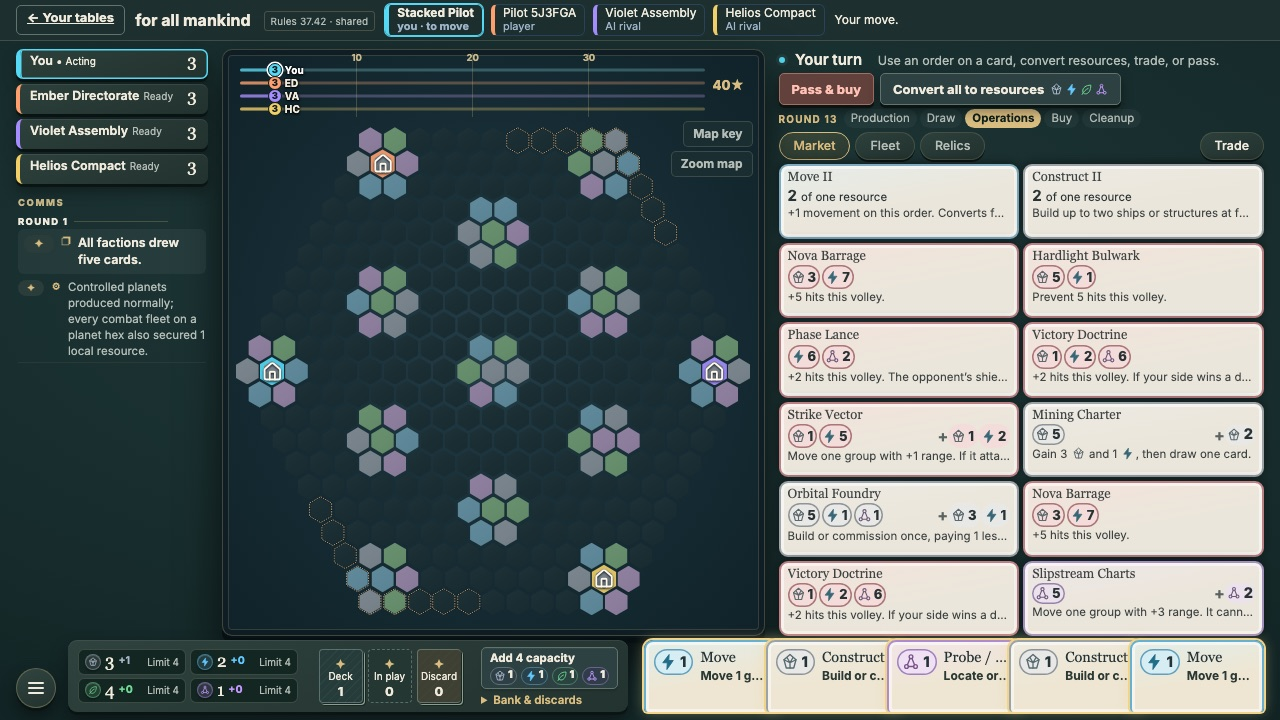
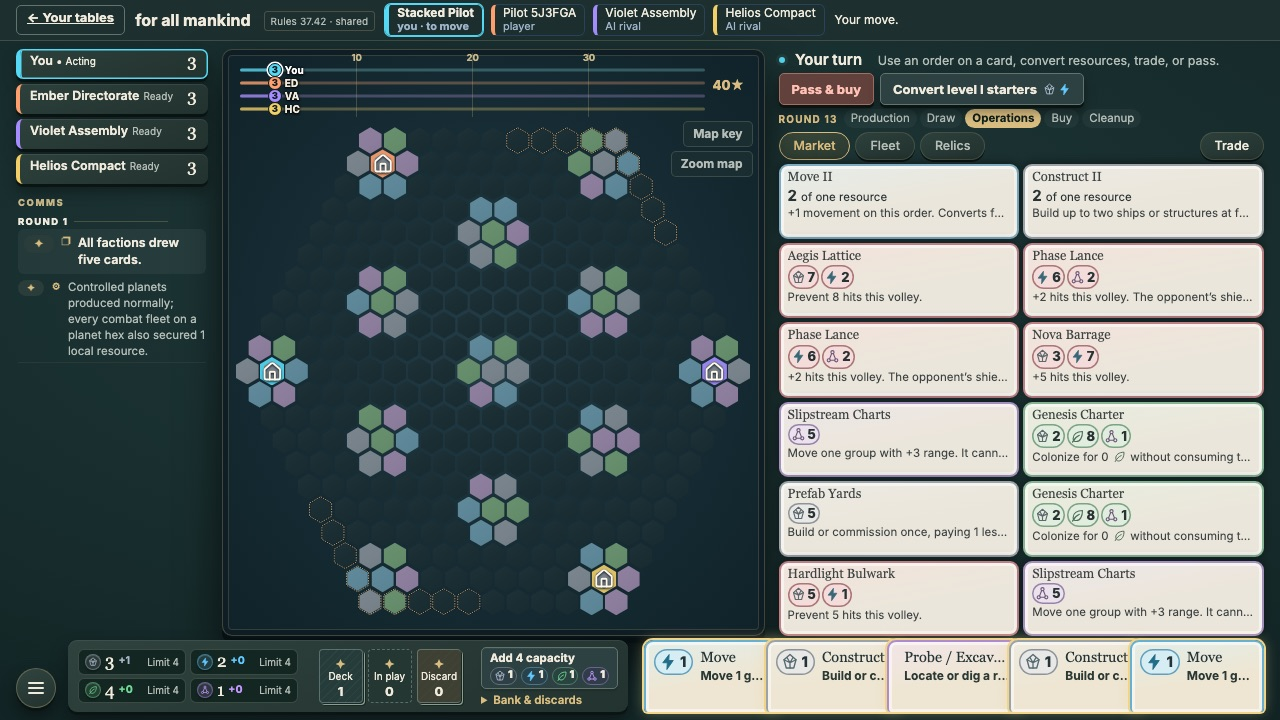
Notices sit in the comms column, clear of the hand; card buttons size to their labels so Cancel Excavate fits; check toasts, raised-card buttons and chosen Probe/Excavate states

diff --git a/prototypes/galactic-reach/rulebook.html b/prototypes/galactic-reach/rulebook.html
@@ -197,7 +197,7 @@
       <section id="buy">
         <h2>09 / Improve your deck</h2>
         <p id="deck-inspection">Click <strong>Deck</strong> to inspect the cards remaining in your draw pile. Cards are grouped by name, starter status, and level, with quantities. Their draw order is hidden. Opening this view does not draw, shuffle, or change cards. Other factions cannot inspect your deck. Replays show deck size only.</p>
-        <p id="player-mat">You keep <strong>Deck</strong>, <strong>In play</strong>, and <strong>Discard</strong> as separate piles; on a desktop window they lie with your reserves and capacity on your player mat in front of the board, beside your hand, and the turn’s main button (<strong>Pass &amp; buy</strong> or <strong>Finish Buy</strong>) and <strong>Convert all</strong> sit with the turn prompt. Click a pile to inspect it. In play holds cards you have already used this round; Discard holds cards available for a later reshuffle, including newly gained cards. Inspecting a pile never moves its cards. Your hand is held as a row of card tops in front of the board: each top shows the card’s name and level, what it converts into in its corner, and a one-line summary of its order. A held card shows no price; prices appear only in the market. A card whose order you can use now is outlined in gold. Point at a card, or Tab to its buttons, to raise it and read its full text; choose an order or conversion with its <strong>Use order</strong> or <strong>Convert</strong> button. On a desktop window the whole table fits on screen without scrolling: the board, your hand, standings, reserves and the open tab of your controls stay in view together.</p>
+        <p id="player-mat">You keep <strong>Deck</strong>, <strong>In play</strong>, and <strong>Discard</strong> as separate piles; on a desktop window they lie with your reserves and capacity on your player mat in front of the board, beside your hand, and the turn’s main button (<strong>Pass &amp; buy</strong> or <strong>Finish Buy</strong>) and <strong>Convert level I starters</strong> sit with the turn prompt. Click a pile to inspect it. In play holds cards you have already used this round; Discard holds cards available for a later reshuffle, including newly gained cards. Inspecting a pile never moves its cards. Your hand is held as a row of card tops in front of the board: each top shows the card’s name and level, what it converts into in its corner, and a one-line summary of its order. A held card shows no price; prices appear only in the market. A card whose order you can use now is outlined in gold. Point at a card, or Tab to its buttons, to raise it and read its full text; choose an order or conversion with its <strong>Use order</strong> or <strong>Convert</strong> button. On a desktop window the whole table fits on screen without scrolling: the board, your hand, standings, reserves and the open tab of your controls stay in view together.</p>
         <p id="market">As soon as you pass, you may buy any number of the <strong>ten face-up market cards</strong> you can afford. Pay each card’s price separately. Each purchase refills immediately, and you may buy a newly revealed card during the same Buy turn. There is no purchase-count limit. Choose Finish Buy whenever you are done. Move and Construct are not for sale in this playtest; your six starters are your only basic cards. Colonize and Probe are bundled only with unit commissions, and Excavate is the second option on the Explorer-bundled card. You cannot return to Operations this round.</p>
         <p>The market draws from one shuffled supply of 62 cards: two copies of each of 22 normal-deck designs and 9 military designs. A bought normal card enters your discard pile. A bought military card joins your <a href="#military-deck">military deck</a> instead. Refill the empty slot immediately from the supply. When the supply runs out, the market shrinks. A Wonder gives its Prestige the moment you buy it. A card you cannot buy right now is shaded in the market, with the reason on the card and on hover, for example <em>Needs 2 more Data</em> or <em>Raise Energy capacity to 6</em>.</p>
         <p>During the same Buy turn you may also:</p>

diff --git a/prototypes/galactic-reach/styles.css b/prototypes/galactic-reach/styles.css
@@ -1610,7 +1610,8 @@ summary:focus-visible, input:focus-visible, select:focus-visible { outline: 2px 
   :is(#hand-row, .market-cards) .card-headline { display: block; font-weight: 650; color: #2c3a35; }
   :is(#hand-row, .market-cards) .card-headline ~ .card-effect { display: none; }
   :is(#hand-row, .market-cards) .card-buttons { grid-area: buttons; flex-direction: row; gap: 4px; margin-top: 6px; opacity: 0; }
-  :is(#hand-row, .market-cards) .card-buttons .button { flex: 1 1 0; min-width: 0; min-height: 30px; padding: 2px 4px; font-size: 12.5px; }
+  /* Buttons share the row by their labels, so Probe leaves room for Cancel Excavate on one line. */
+  :is(#hand-row, .market-cards) .card-buttons .button { flex: 1 1 auto; min-width: 0; min-height: 30px; padding: 2px 6px; font-size: 12.5px; white-space: nowrap; }
   :is(#hand-row, .market-cards) .card-buttons .label-detail { display: none; }
   /* Resource icons inside a card top's text keep to the line height. */
   :is(#hand-row, .market-cards) :is(.card-effect, .card-headline) .inline-resource .resource-symbol { width: 1.15em; height: 1.15em; }
@@ -1789,4 +1790,8 @@ summary:focus-visible, input:focus-visible, select:focus-visible { outline: 2px 
 @media (min-width: 1024px) and (min-height: 1000px) {
   .market-cards { --mtop-max: 120px; }
   :is(#market-row, #upgrade-market) .game-card:not(:hover):not(:focus):not(:focus-within) .card-effect { -webkit-line-clamp: 3; line-clamp: 3; }
+}
+/* Notices: in the comms column above the menu button, never over the hand, the map or a control. */
+@media (min-width: 1024px) and (min-height: 600px) {
+  .toast { left: 10px; right: auto; bottom: calc(clamp(90px, 11.5dvh, 110px) + 12px); width: calc(clamp(190px, 15vw, 250px) - 12px); max-width: none; align-items: flex-start; line-height: 1.35; }
 }
